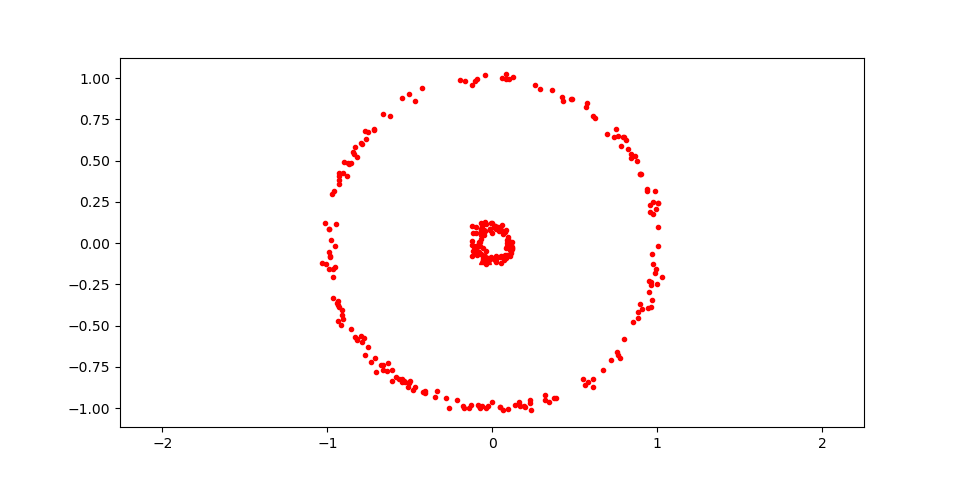
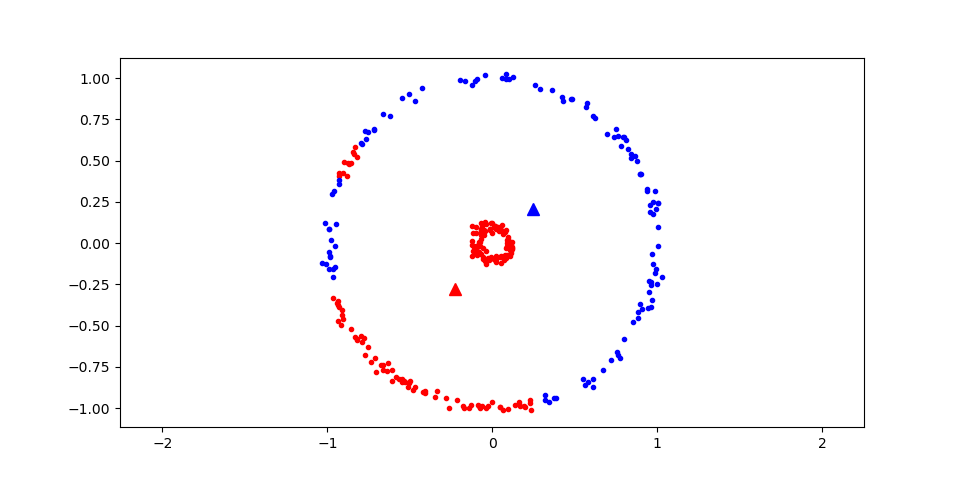
commit

diff --git a/AI/hw_code7/main_kmeans_kernel.py b/AI/hw_code7/main_kmeans_kernel.py
@@ -21,7 +21,7 @@ if __name__ == '__main__':
     N = np.shape(p)[0]
     K = len(num)
 
-    def apply_rbf_kernel(p1, p2):
+    def apply_rbf_kernel(p1, p2): # function k
         diff = p1 - p2
         dist = np.sum(diff * diff, axis=1)
         exp_tmp = -1.0 * dist * 10.0
@@ -30,36 +30,41 @@ if __name__ == '__main__':
 
     def get_idx_cluster(p, p_cluster,idx_cluster): # 고치기
         num_k = np.shape(p_cluster)[0]
-        idx_cluster = []
         dic = {}
-        
         for i in range(num_k):
             dic[i] = []
             idx_tmp = np.where(idx_cluster == i)
             idx_tmp = idx_tmp[0]
+            
             tmp1 = apply_rbf_kernel(p,p)
             if len(idx_tmp):
                 pi_c = p[idx_tmp,:]
                 nc = len(pi_c)
                 tmp2 = 0
                 for j in range(len(pi_c)):
-                    tmp2 += apply_rbf_kernel(p,np.array([j]))
-                
-                tmp3 = apply_rbf_kernel(pi_c,pi_c)
-                distance = tmp1 - (2/nc * tmp2) + (1/(nc**2))*tmp3
+                    tmp2 += apply_rbf_kernel(p,np.array(pi_c[j]))
+                tmp3 = 0
+                for pi in pi_c:
+                    pi = np.array([pi])
+                    for pj in pi_c:
+                        pj = np.array([pj])
+                        tmp3 += apply_rbf_kernel(pi,pj)                        
+                distance = tmp1 - (2/nc * tmp2) + ((nc**-2) * tmp3)
                 dic[i].append(distance.tolist())
             else:
                 dic[i].append(tmp1.tolist())
-        if len(dic[0]) != len(dic[1]):
-            print('wrong')
+        new_cluster = []
+        
         
         for v in range(len(p)):
-            if dic[0][v] > dic[1][v]:
-                idx_cluster.append(0)
-            else:
-                idx_cluster.append(1)
-        print(idx_cluster)              
-        return idx_cluster
+            minimum = dic[0][0][v]
+            idx = 0
+            for k in range(num_k):
+                if dic[k][0][v] < minimum:
+                    minimum = dic[k][0][v]
+                    idx = k
+            new_cluster.append(idx)
+        return np.array(new_cluster)
 
     def update_p_cluster(p, p_cluster, idx_cluster):
         num_k = np.shape(p_cluster)[0]
